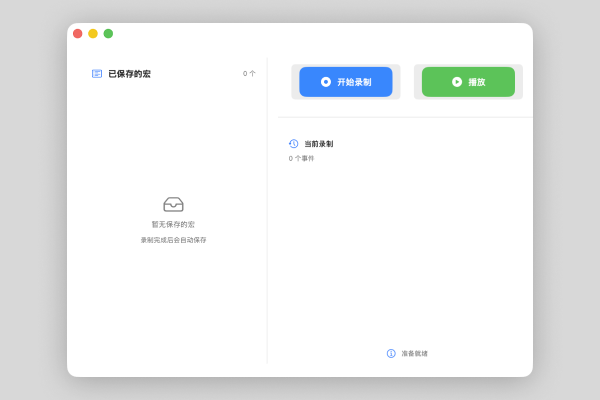
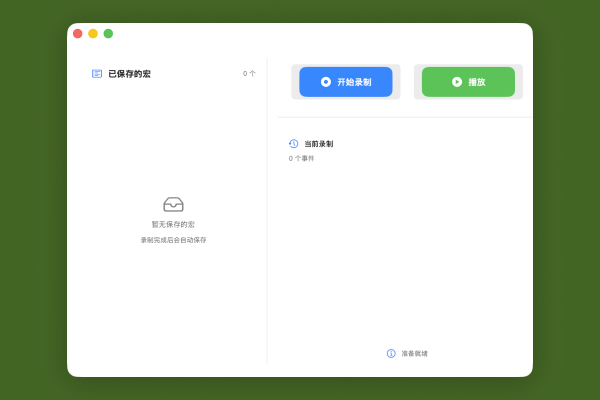
更新：添加第四个应用 图标包名提取器，更新所有截图

diff --git a/script.js b/script.js
@@ -40,6 +40,20 @@ const apps = [
         },
         repoUrl: "https://github.com/cxcboss/OPPOthemetool",
         features: ["主题解包", "主题打包", "支持.theme文件", "跨平台兼容"]
+    },
+    {
+        id: 4,
+        name: "图标包名提取器",
+        version: "v1.0",
+        icon: `<img src="img/icon 4.png" alt="图标包名提取器图标" style="width: 100%; height: 100%; object-fit: cover;">`,
+        screenshot: "img/截图 4.png",
+        description: "一个简洁的 Android 应用，用于获取手机中所有有桌面图标的应用包名和应用名称。自动分类为第三方应用和系统应用，支持保存为文本文件。",
+        size: "约 2.8 MB",
+        downloads: {
+            "Android": "https://github.com/cxcboss/iconsname/releases/download/v1.0/app-release.apk"
+        },
+        repoUrl: "https://github.com/cxcboss/iconsname",
+        features: ["获取应用包名", "自动分类", "保存文本文件", "暗色主题"]
     }
 ];
 

diff --git a/index.html b/index.html
@@ -39,7 +39,7 @@
                 <p class="hero-subtitle">精心挑选的工具，让你的数字生活更加便捷</p>
                 <div class="hero-stats">
                     <div class="stat">
-                        <span class="stat-number">3</span>
+                        <span class="stat-number">4</span>
                         <span class="stat-label">个应用</span>
                     </div>
                     <div class="stat">
